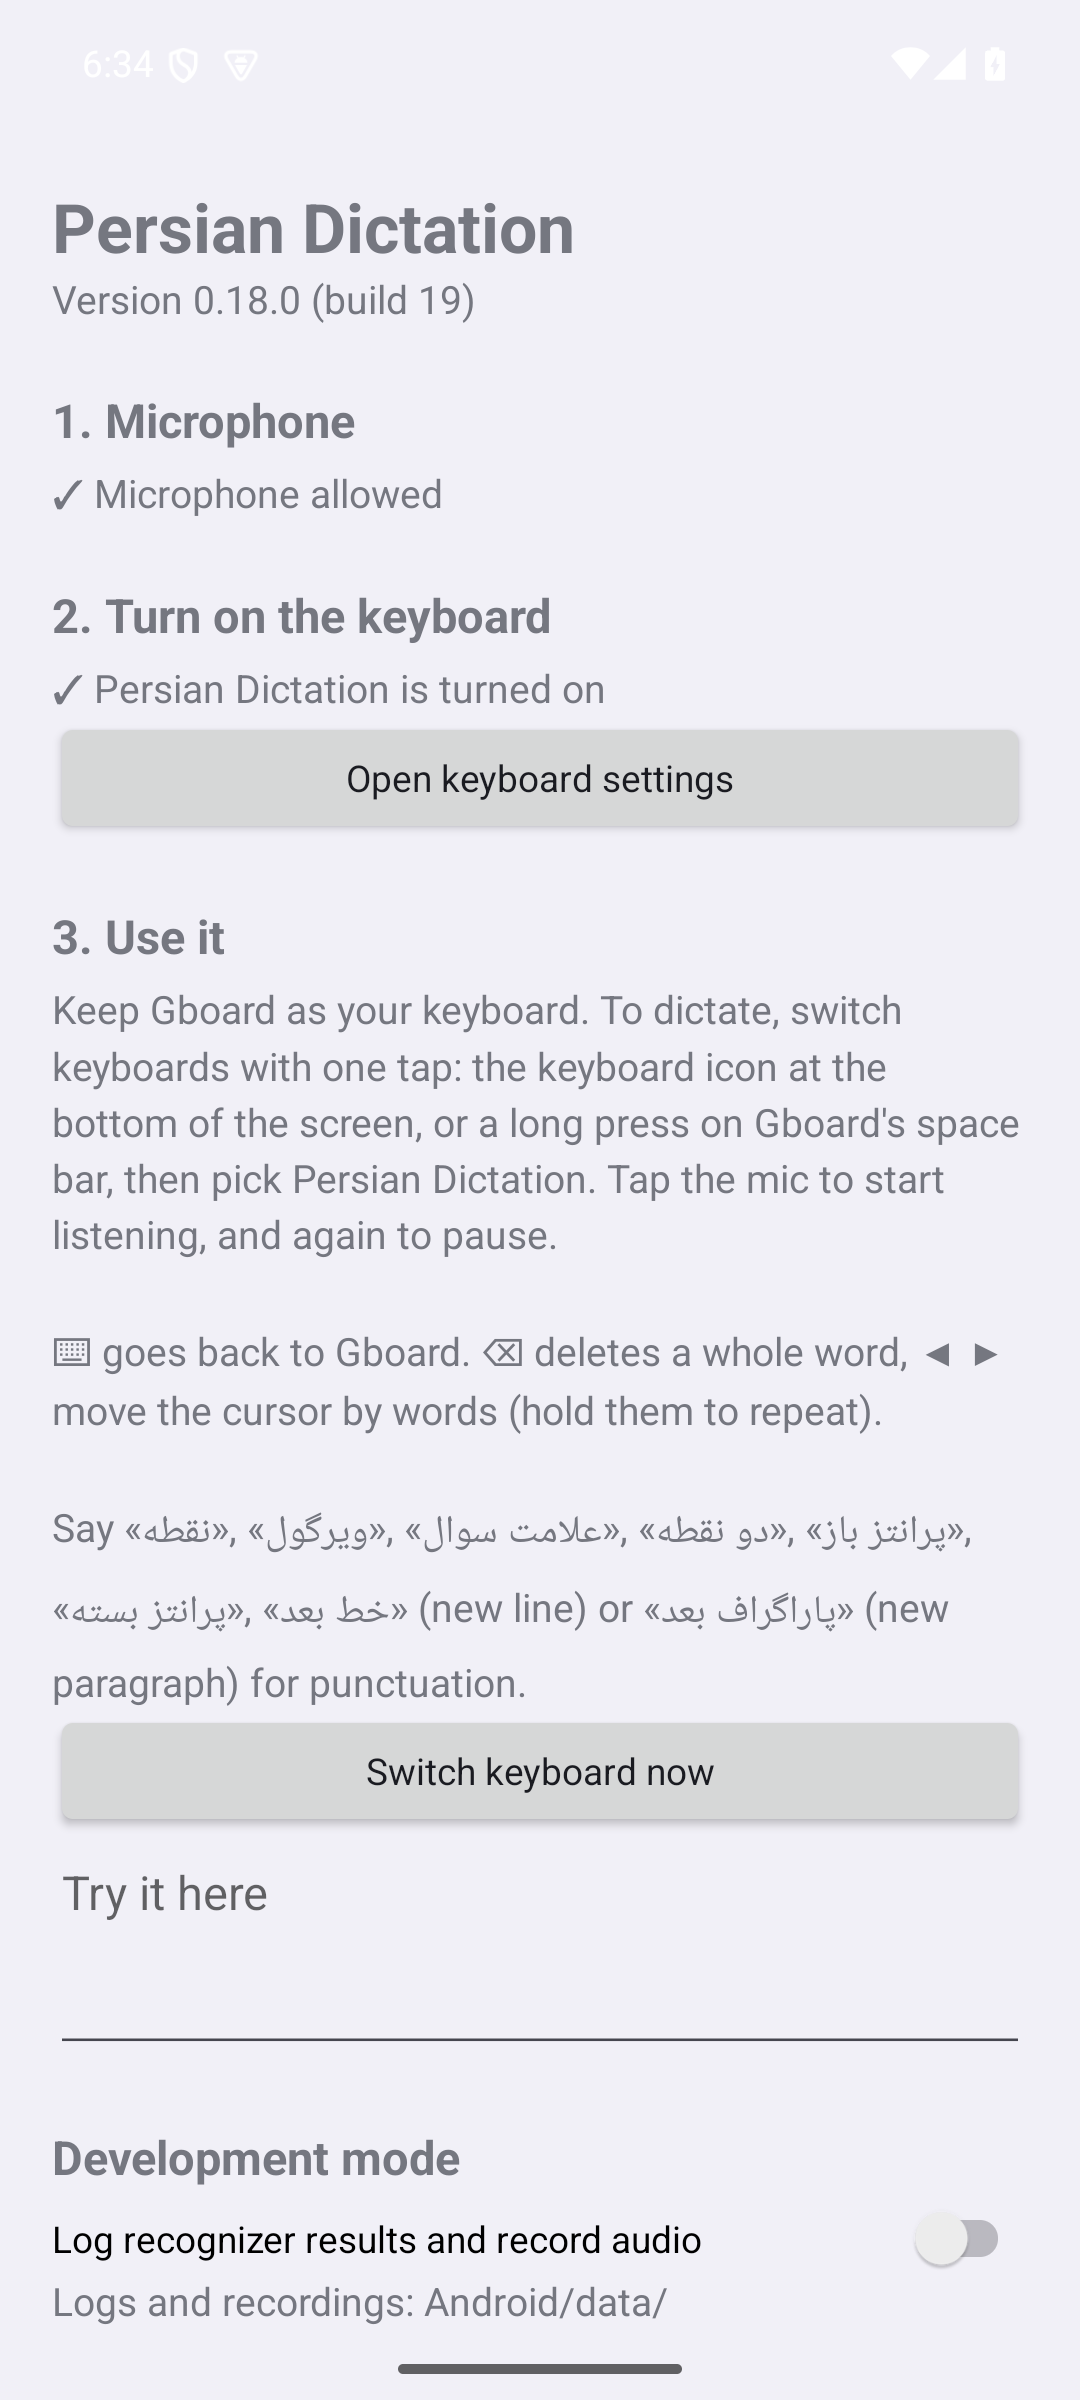
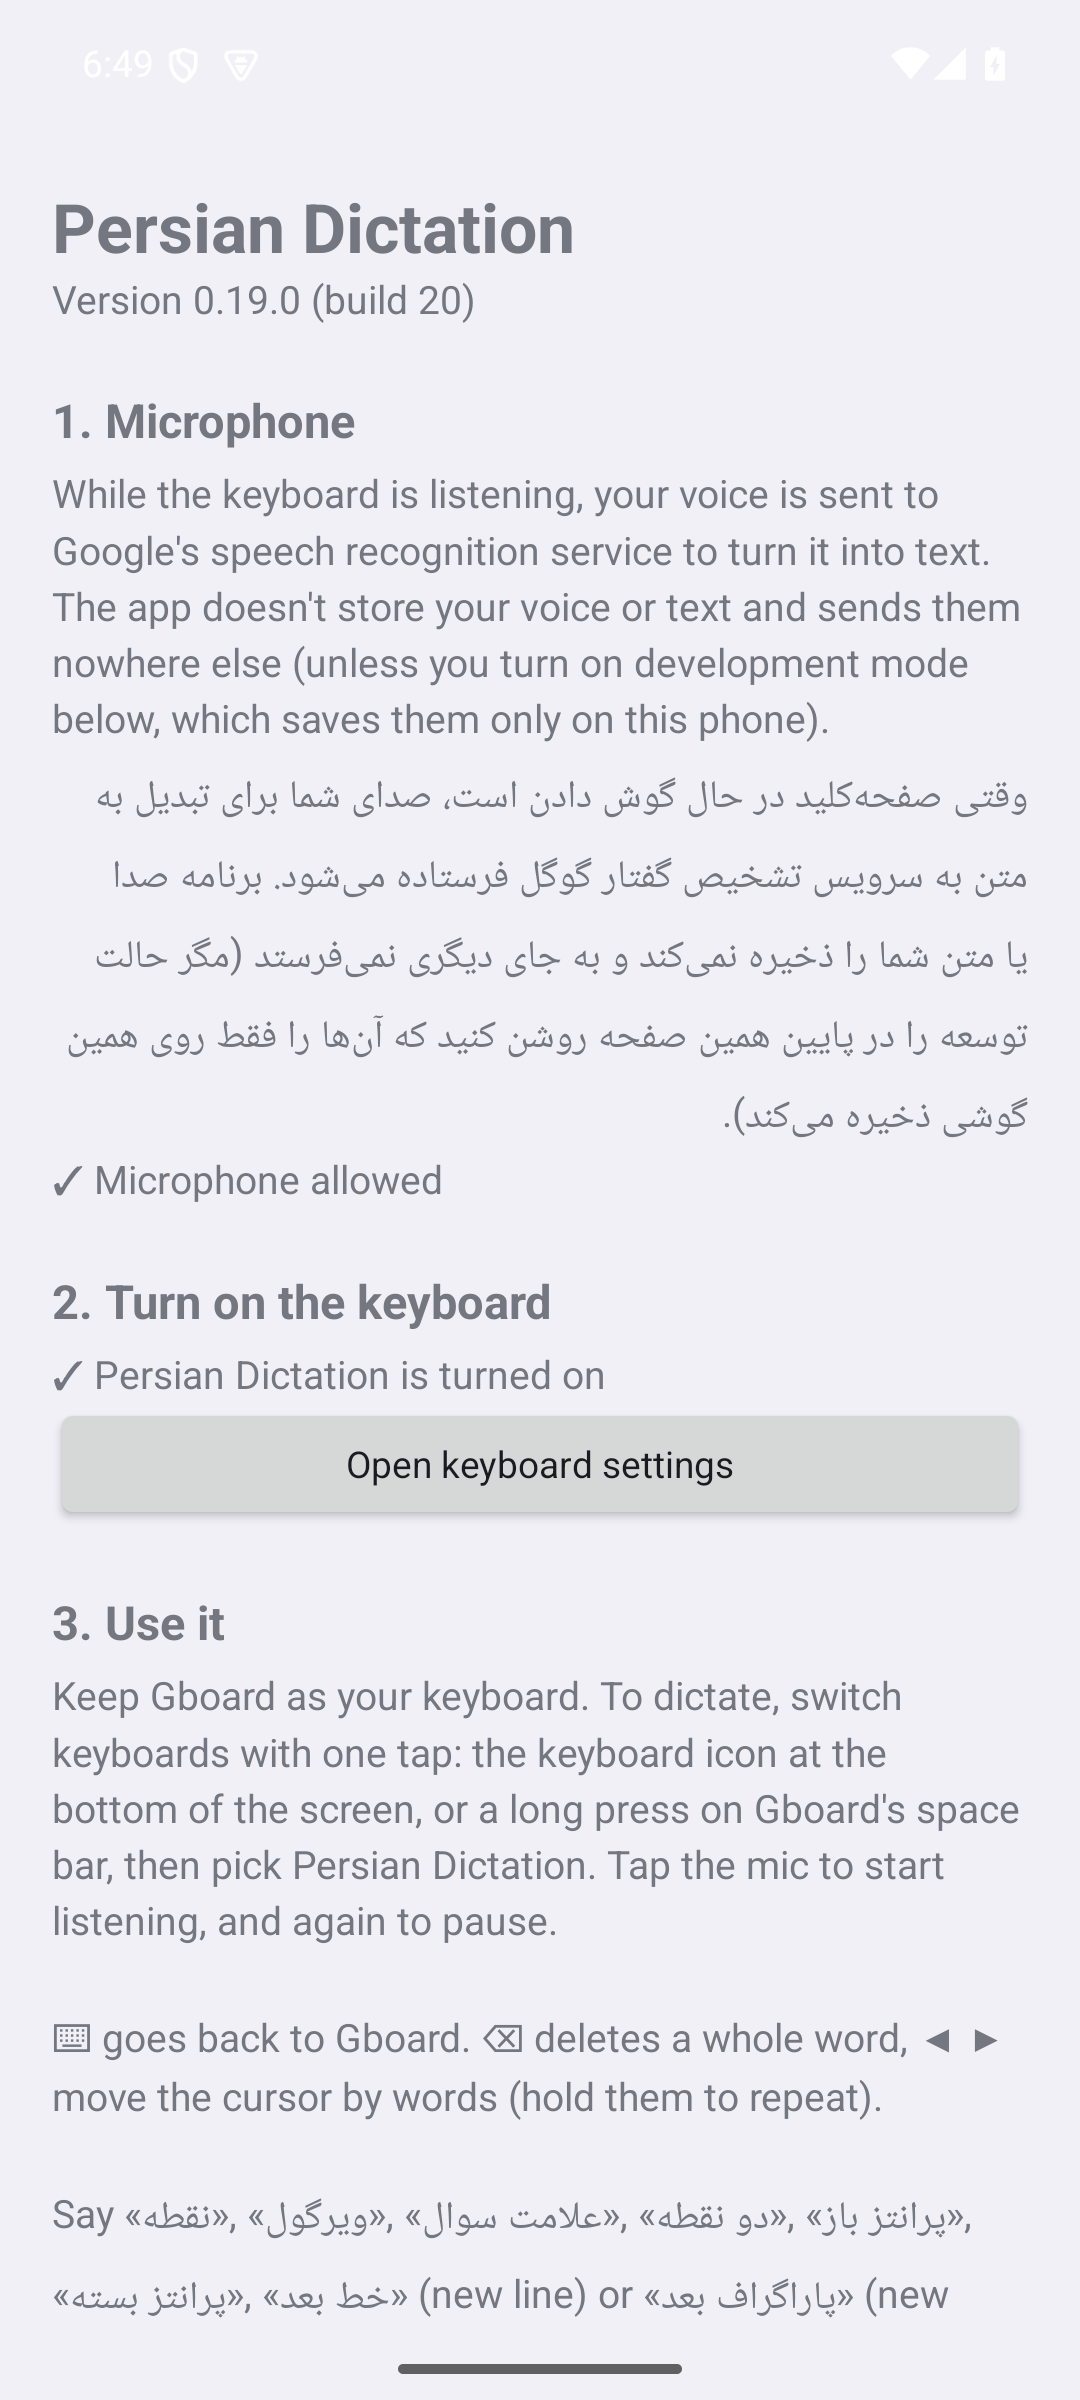
Android 0.19.0: privacy notice on the setup screen
Cafe Bazaar's rules require telling users, before collecting private data, what is
collected and why. The microphone step now says (English + Persian) that voice goes
to Google's speech service only while listening and is stored nowhere else.

diff --git a/android/app/src/main/kotlin/local/voice2text/persiandictation/SetupActivity.kt b/android/app/src/main/kotlin/local/voice2text/persiandictation/SetupActivity.kt
@@ -54,6 +54,18 @@ class SetupActivity : Activity() {
         column.addView(body("Version ${versionDisplay(this)}"))
 
         column.addView(heading("1. Microphone"))
+        // Privacy notice before the permission request (Cafe Bazaar requires it for private data).
+        column.addView(body(
+            "While the keyboard is listening, your voice is sent to Google's speech recognition service " +
+            "to turn it into text. The app doesn't store your voice or text and sends them nowhere else " +
+            "(unless you turn on development mode below, which saves them only on this phone)."))
+        column.addView(body(
+            "وقتی صفحهکلید در حال گوش دادن است، صدای شما برای تبدیل به متن به سرویس تشخیص گفتار گوگل " +
+            "فرستاده میشود. برنامه صدا یا متن شما را ذخیره نمیکند و به جای دیگری نمیفرستد " +
+            "(مگر حالت توسعه را در پایین همین صفحه روشن کنید که آنها را فقط روی همین گوشی ذخیره میکند).").apply {
+            textDirection = android.view.View.TEXT_DIRECTION_RTL
+            setPadding(0, pad(8), 0, 0)
+        })
         micStatus = body()
         column.addView(micStatus)
         micButton = Button(this).apply {
